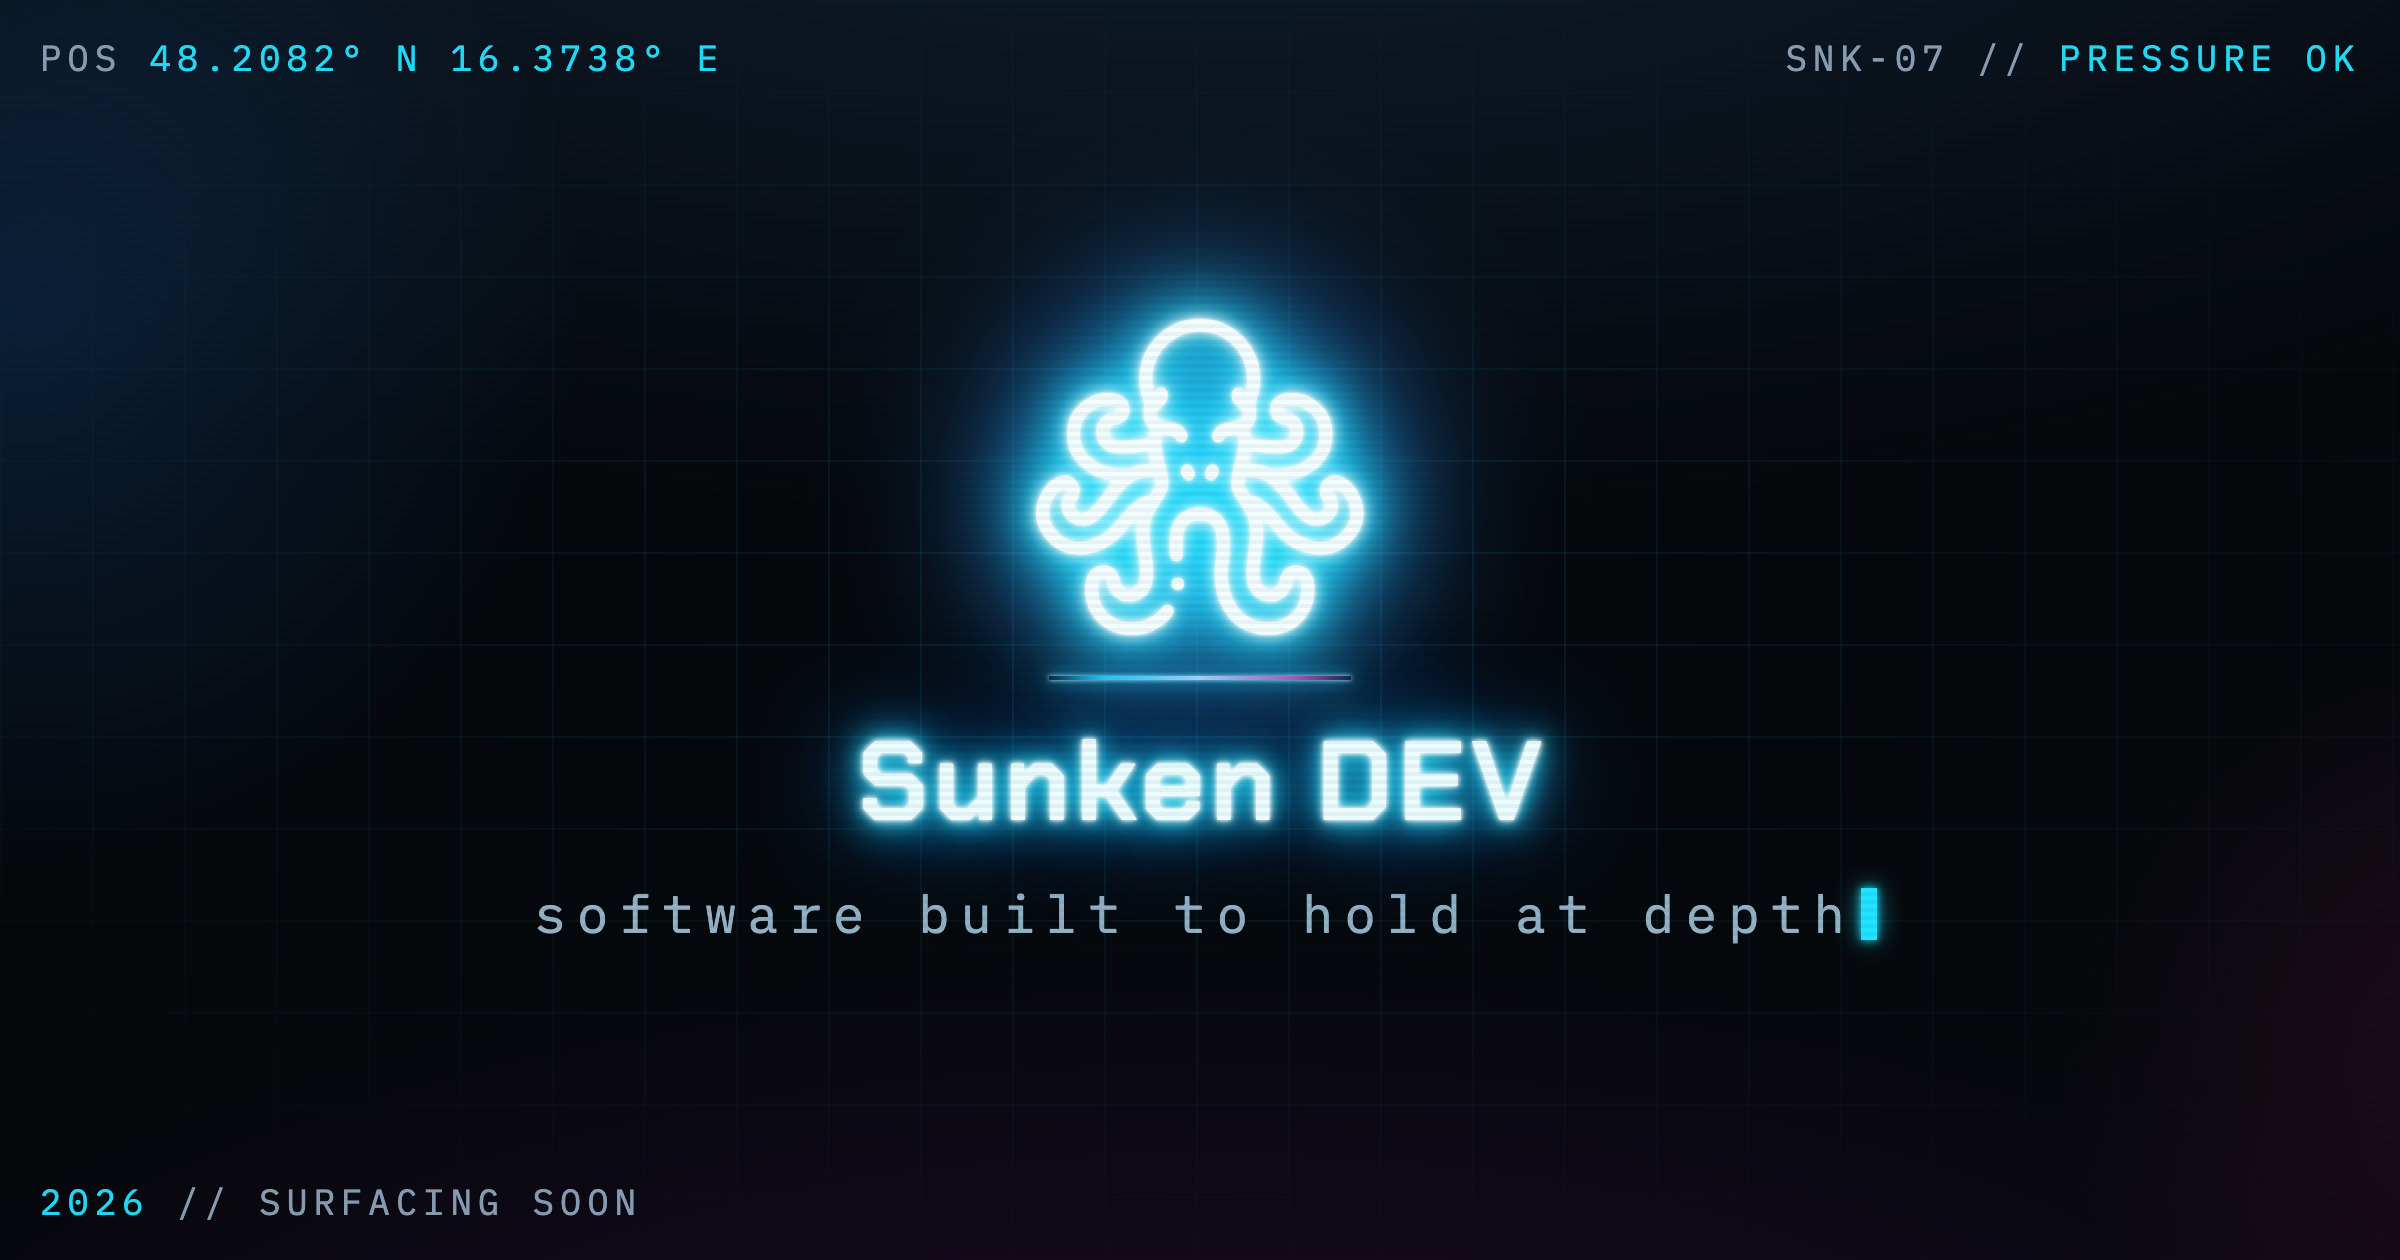
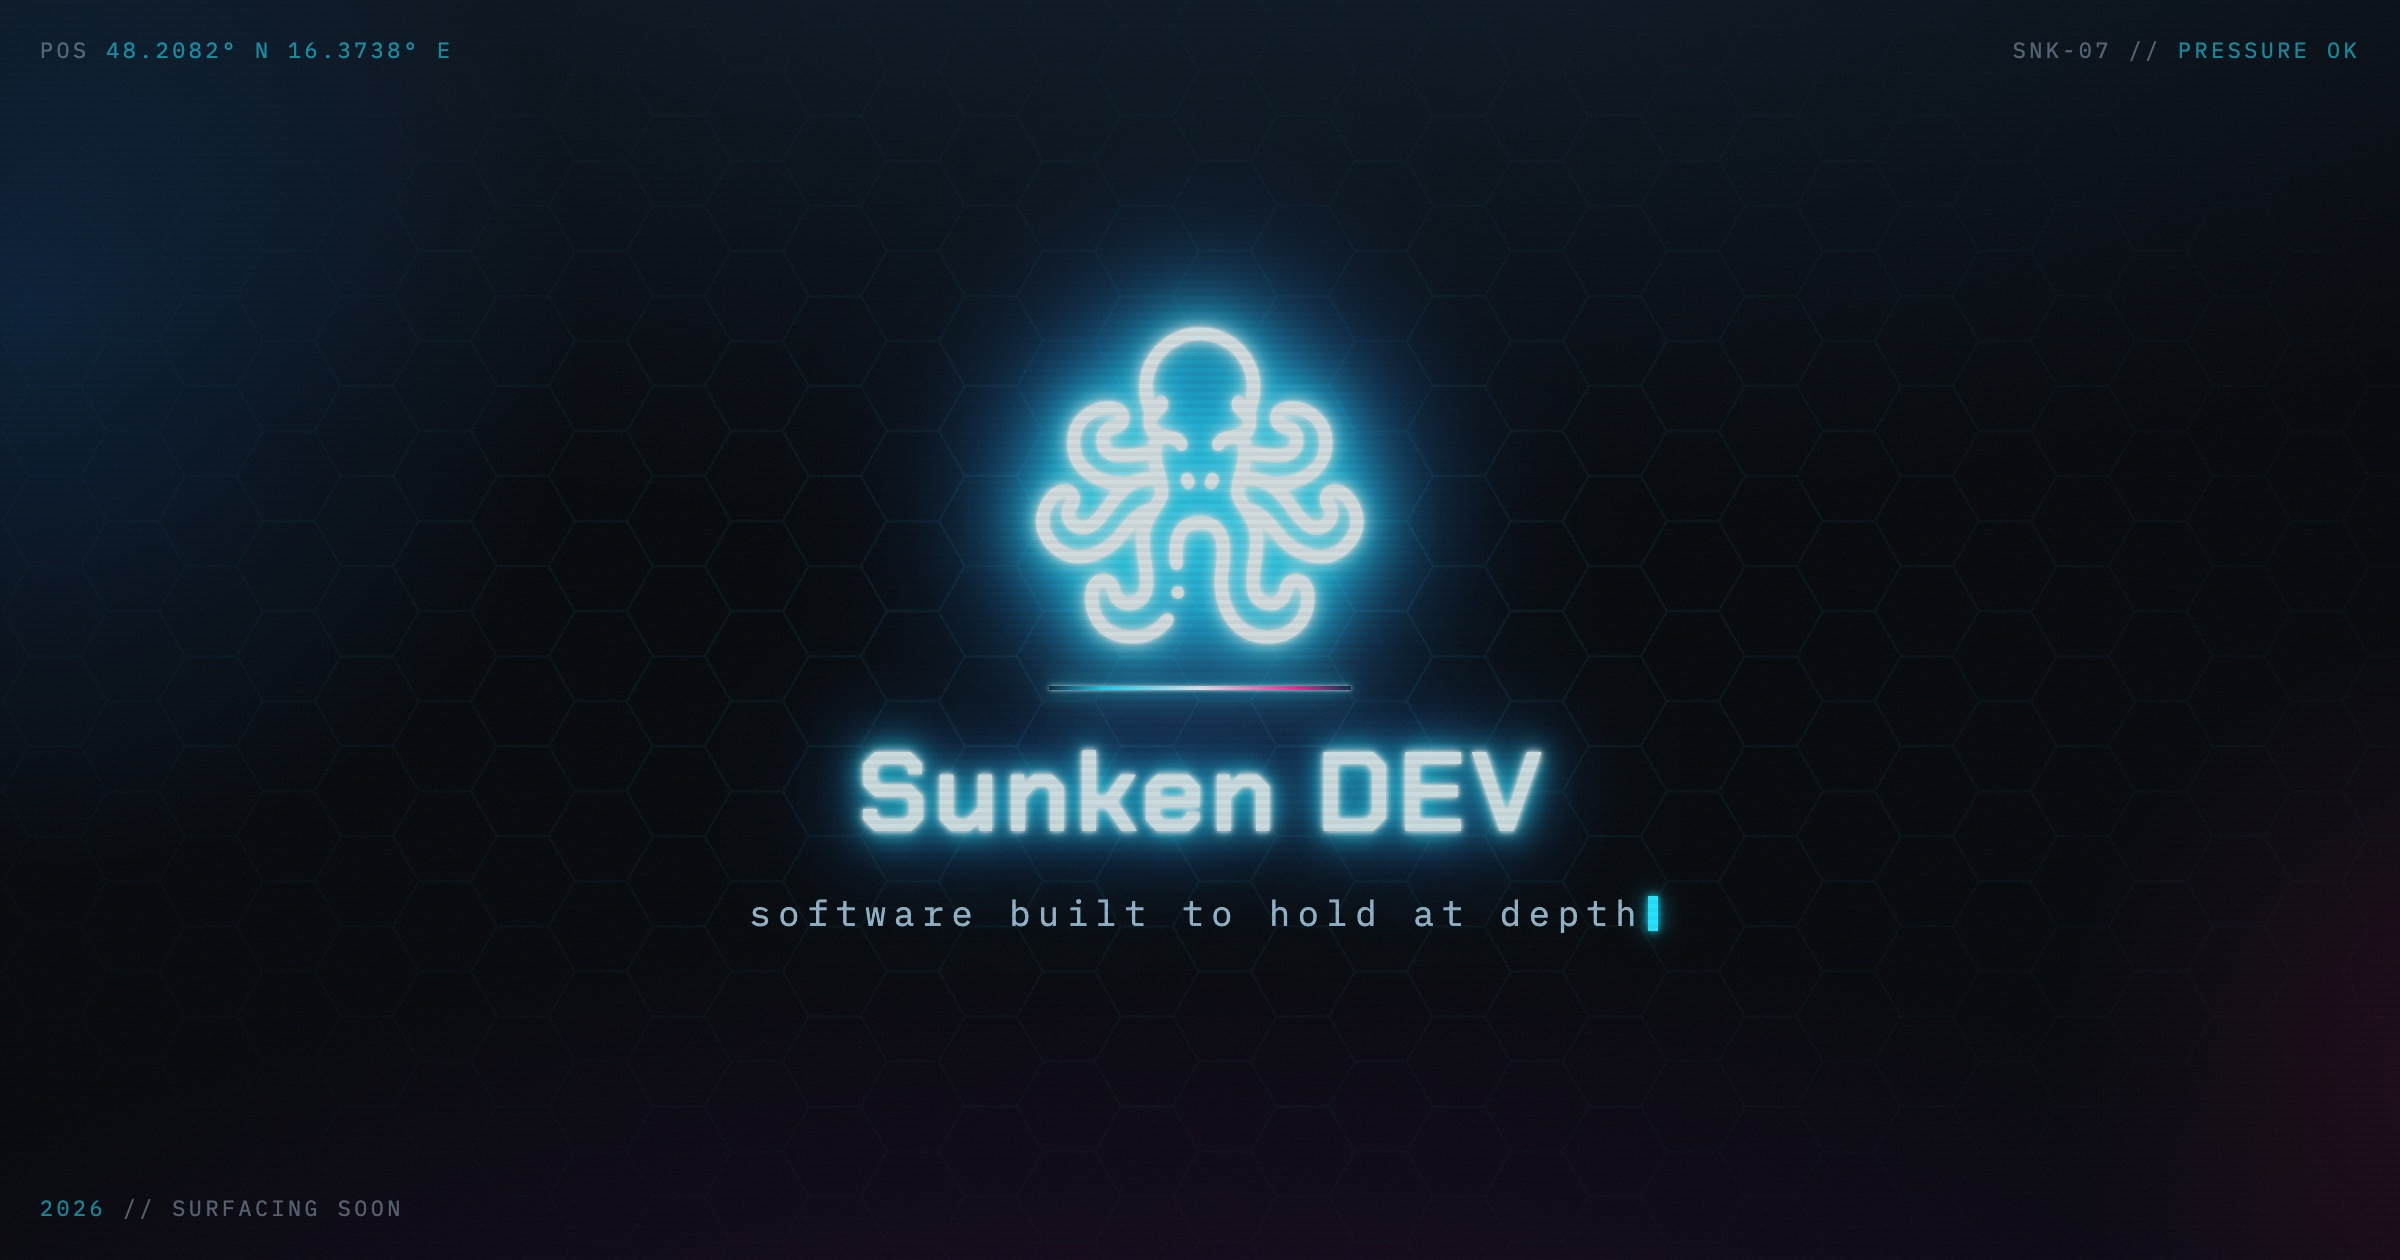
Show the honeycomb background in the social preview image

diff --git a/index.html b/index.html
@@ -24,13 +24,13 @@
   <meta property="og:image:type" content="image/jpeg">
   <meta property="og:image:width" content="2400">
   <meta property="og:image:height" content="1260">
-  <meta property="og:image:alt" content="The Sunken DEV kraken wordmark glowing in neon over a dark grid.">
+  <meta property="og:image:alt" content="The Sunken DEV kraken wordmark glowing in neon over a dark honeycomb.">
 
   <meta name="twitter:card" content="summary_large_image">
   <meta name="twitter:title" content="Sunken DEV">
   <meta name="twitter:description" content="Sunken DEV — project page of Dominik Moser.">
   <meta name="twitter:image" content="https://sunken.dev/og.jpg">
-  <meta name="twitter:image:alt" content="The Sunken DEV kraken wordmark glowing in neon over a dark grid.">
+  <meta name="twitter:image:alt" content="The Sunken DEV kraken wordmark glowing in neon over a dark honeycomb.">
 
   <script type="application/ld+json">
     {
